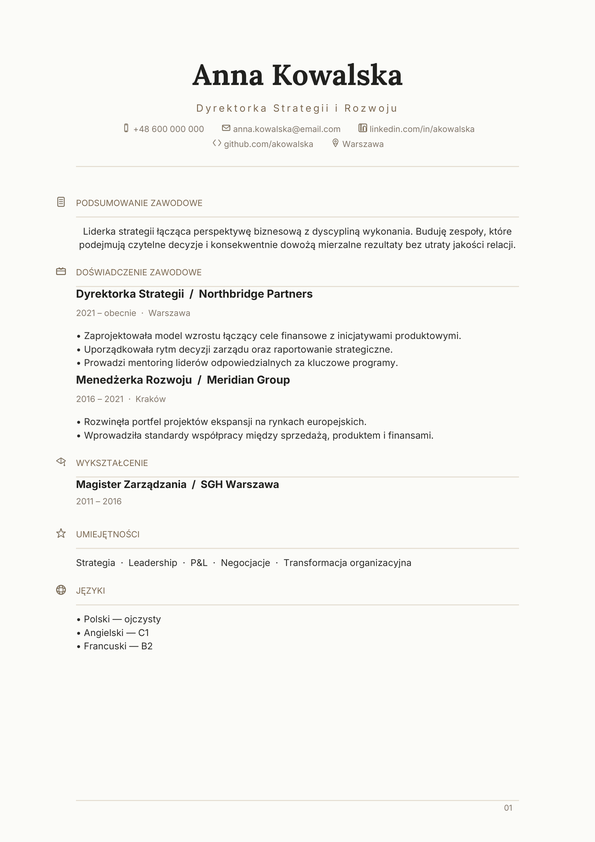
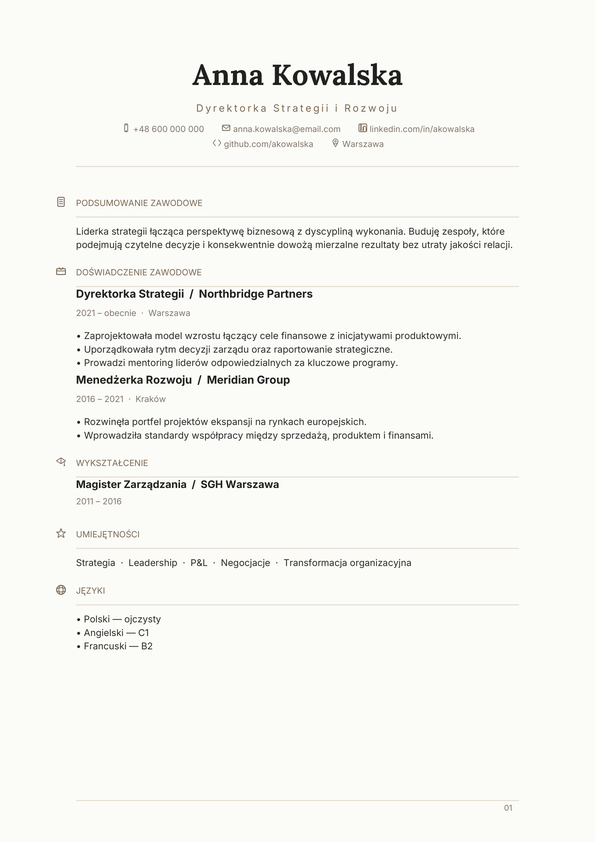
portico

Changed region(s): [[0.121, 0.247, 0.8773, 0.3088]]

diff --git a/frontend/src/templates/portico.js b/frontend/src/templates/portico.js
@@ -1,13 +1,11 @@
 /**
  * Portico template (`layouts: ["icons"]`).
  *
- * The only template that combines centered typography with icon chrome: the
- * name, title, contact row, and summary paragraph are all centered on the
- * page (an "Ivy League" masthead), while Experience / Education / Skills /
- * Languages stay left-aligned single-column with icon-in-gutter section
- * headings, matching the Cardinal / Nova body structure. The summary keeps
- * the same icon+heading chrome as every other section for stylistic
- * consistency — only its paragraph body is centered.
+ * The only template that combines a centered masthead with icon chrome: the
+ * name, title, and contact row are centered on the page (an "Ivy League"
+ * masthead), while everything below the header rule — Summary, Experience,
+ * Education, Skills, Languages — stays left-aligned single-column with
+ * icon-in-gutter section headings, matching the Cardinal / Nova body structure.
  *
  * Geometry mirrors the backend generator
  * (`backend/app/services/cv_templates/templates/portico.py`) exactly: these
@@ -100,13 +98,13 @@ const porticoElements = [
     ...contact("location", 329.4, 342.4, "Warszawa", 144),
     masthead(line(L, 166, W, 1, RULE, 2)),
 
-    // ── Podsumowanie zawodowe (centered paragraph, icon+heading chrome) ─────
+    // ── Podsumowanie zawodowe (left-aligned paragraph, like every body section) ─
     ...sectionHead("summary", "PODSUMOWANIE ZAWODOWE", 203),
     block(
         "Liderka strategii łącząca perspektywę biznesową z dyscypliną wykonania. "
         + "Buduję zespoły, które podejmują czytelne decyzje i konsekwentnie dowożą "
         + "mierzalne rezultaty bez utraty jakości relacji.",
-        L, 224.5, W, 27, 9.4, 13.4, BODY, SANS, 0, 2, "center",
+        L, 224.5, W, 27, 9.4, 13.4, BODY, SANS,
     ),
 
     // ── Doświadczenie zawodowe ───────────────────────────────────────────────

diff --git a/backend/app/services/cv_templates/templates/portico.py b/backend/app/services/cv_templates/templates/portico.py
@@ -27,14 +27,12 @@ from app.services.cv_templates.shared.text import _compact_text, _labels, _skill
 
 
 def _gen_portico(cv: dict) -> list[dict]:
-    """Centered masthead + summary; left-aligned icon body below.
+    """Centered masthead; left-aligned icon body below.
 
-    The only template combining centered typography with icon chrome: name,
-    title, and the contact row are centered on the page, and the summary
-    paragraph stays centered too even though its heading keeps the same
-    left-aligned icon chrome as every other section (a deliberate stylistic
-    choice — see the summary block below). Experience/Education/Skills/Extras
-    stay left-aligned single-column with icon-in-gutter section headings,
+    The only template combining a centered masthead with icon chrome: name,
+    title, and the contact row are centered on the page. Everything below the
+    header rule — summary, experience, education, skills, extras — is a
+    left-aligned single-column body with icon-in-gutter section headings,
     matching the Cardinal/Nova body structure.
     """
     C = {
@@ -133,10 +131,9 @@ def _gen_portico(cv: dict) -> list[dict]:
     if cv.get('summary'):
         b.need_section(SECTION_CHROME, b.measure_block(cv['summary'], W, BODY_FS, BODY_LH, SANS))
         section(lbl['summary'])
-        # Summary keeps the icon+heading chrome for consistency with every
-        # other section, but its paragraph body stays centered — the one
-        # place centering continues past the masthead.
-        b.block(cv['summary'], L, W, BODY_FS, BODY_LH, C['body'], SANS, align='center')
+        # Summary is left-aligned like every other body section; only the
+        # masthead (name / title / contact row) is centered.
+        b.block(cv['summary'], L, W, BODY_FS, BODY_LH, C['body'], SANS)
         close_section()
     if cv.get('experience'):
         jobs = cv['experience']

diff --git a/README.md b/README.md
@@ -648,17 +648,17 @@ Known limitation: like Tessera, sidebar sections are atomic and remain on page 1
 
 ### Portico centered-masthead template
 
-Portico is a paid single-column template (`layouts: ["icons"]`) built around a genuinely new composition: it is the only template that combines a centered masthead with icon chrome. The name, title, and a two-row contact band are all centered on the page (an "Ivy League"-style résumé header), and the summary paragraph stays centered too, while Experience, Education, Skills, and any extra sections drop into the same left-aligned single-column icon body used by Cardinal and Nova. Its palette is a warm, quiet bronze/taupe (`#7C6A52` accent, `#22221F` ink, `#FCFBF8` paper, `#E4DED2` rule) — deliberately distinct from every other accent colour in the catalogue. The display name uses Lora (serif); everything else — title, contact labels, section headings, and body copy — uses Inter.
+Portico is a paid single-column template (`layouts: ["icons"]`) built around a genuinely new composition: it is the only template that combines a centered masthead with icon chrome. The name, title, and a two-row contact band are all centered on the page (an "Ivy League"-style résumé header), while everything below the header rule — Summary, Experience, Education, Skills, and any extra sections — drops into the same left-aligned single-column icon body used by Cardinal and Nova. Its palette is a warm, quiet bronze/taupe (`#7C6A52` accent, `#22221F` ink, `#FCFBF8` paper, `#E4DED2` rule) — deliberately distinct from every other accent colour in the catalogue. The display name uses Lora (serif); everything else — title, contact labels, section headings, and body copy — uses Inter.
 
-The summary keeps the same icon-in-gutter, left-aligned heading as every other section for stylistic consistency (it is a section like any other), but its paragraph body renders as a centered `textarea` — the one place centering continues past the masthead into the document body. This is a deliberate two-zone composition (centered masthead + summary, left-aligned working sections) rather than a fully centered document, which keeps longer experience bullets and education records readable.
+Centering is scoped to the masthead only (name / title / contact row); the body is a conventional left-aligned single column. This keeps longer experience bullets and education records readable while still giving the header the distinctive centered look.
 
-Centering itself needed no renderer or schema changes: `align: "center"` on a `textarea`/`_block` element was already supported end-to-end by both the ReportLab PDF renderer (`renderTextarea`) and the canvas (`Textarea.jsx`). The only new engineering surface is the contact row, which must re-center itself around the page's horizontal center regardless of how many contact channels (phone, email, socials, location) a CV has — `_place_centered_icon_contacts` buckets contact chips into lines using the same per-item width estimate as the left-anchored `_place_wrapping_icon_contacts` (factored into a shared `_contact_item_width` helper so the two placers cannot drift apart), then re-centers each completed line around `center_x` before laying out icons and labels left-to-right within it.
+Centering itself needed no renderer or schema changes: `align: "center"` on a `textarea`/`_block` element was already supported end-to-end by both the ReportLab PDF renderer (`renderTextarea`) and the canvas (`Textarea.jsx`), and the centered name/title are `_block` textareas in a page-symmetric box. The only new engineering surface is the contact row, which must re-center itself around the page's horizontal center regardless of how many contact channels (phone, email, socials, location) a CV has — `_place_centered_icon_contacts` buckets contact chips into lines using the same per-item width estimate as the left-anchored `_place_wrapping_icon_contacts` (factored into a shared `_contact_item_width` helper so the two placers cannot drift apart), then re-centers each completed line around `center_x` before laying out icons and labels left-to-right within it.
 
 The bronze glyphs come from a dedicated `portico` theme added to the shared icon pipeline (`scripts/generate_iconic_icons.py`, `THEMES["portico"] = "#7C6A52"`), rendered to `backend/template_assets/iconic/portico/*.png` and served from the existing `/template-assets/` mount.
 
 Implementation:
 
-- `backend/app/services/cv_templates/templates/portico.py`, function `_gen_portico` — centered `_block` masthead, `_place_centered_icon_contacts` for the contact row, `align="center"` on the summary's body block only; Experience/Education/Skills/Extras reuse the same `section()`/`Builder` pattern as `nova.py`
+- `backend/app/services/cv_templates/templates/portico.py`, function `_gen_portico` — centered `_block` masthead and `_place_centered_icon_contacts` for the contact row; the entire body (summary/experience/education/skills/extras) reuses the same left-aligned `section()`/`Builder` pattern as `nova.py`
 - `backend/app/services/cv_templates/shared/contact.py` — `_place_centered_icon_contacts` and the shared `_contact_item_width` helper
 - `backend/app/services/cv_templates/registry.py`, `_GENERATORS["portico"]` and `TEMPLATE_LAYOUTS["portico"]`
 - `frontend/src/templates/portico.js` — static starter spec; local `icon`, `sectionHead`, `contact` helpers mirroring `cardinal.js`, authored from the backend generator's own output coordinates for equivalent demo content
@@ -672,7 +672,7 @@ Tests:
 - `backend/tests/test_cv_template_layouts.py`, `test_summary_matches_experience_body_type_size` and the page-bounds test iterate every registered generator automatically, so Portico is covered without a dedicated test entry
 - `backend/tests/test_template_registry_sync.py` — enforces the frontend/backend id, layout-tag, and tier parity that `portico` now participates in
 
-Known limitation: because the summary's paragraph is centered while its heading stays left-aligned in the icon gutter (a deliberate consistency choice, not an oversight — see above), an unusually short summary can read visually asymmetric against its own heading; this is expected for the design and does not affect Experience/Education/Skills, which are fully left-aligned.
+Reorder note: because Portico's centered masthead authors a deliberate ~36px clearance under the header rule (`SPACE_AFTER_HEADER_RULE`), the structural packer preserves that clearance rather than collapsing it — see the `resolveFlowStart` behaviour in [A4 canvas editor](#a4-canvas-editor-template-vs-freeform).
 
 ### Icon-tagged templates and icon reflow
 
@@ -1949,22 +1949,22 @@ Znane ograniczenie: podobnie jak Tessera, sekcje sidebara są atomowe i pozostaj
 
 ### Szablon Portico z wycentrowanym mastheadem
 
-Portico to płatny szablon jednokolumnowy (`layouts: ["icons"]`) zbudowany wokół naprawdę nowej kompozycji: to jedyny szablon łączący wycentrowany masthead z chrome ikonowym. Imię i nazwisko, tytuł zawodowy oraz dwuwierszowy pasek kontaktu są wycentrowane na stronie (nagłówek w stylu "Ivy League"), a akapit podsumowania również pozostaje wycentrowany, natomiast Doświadczenie, Wykształcenie, Umiejętności i ewentualne sekcje dodatkowe trafiają do tego samego wyrównanego do lewej, jednokolumnowego korpusu ikonowego, jakiego używają Cardinal i Nova. Paleta jest ciepła i stonowana — brąz/taupe (`#7C6A52` akcent, `#22221F` tusz, `#FCFBF8` papier, `#E4DED2` linia) — celowo odmienna od każdego innego akcentu w katalogu. Imię i nazwisko używa szeryfowego kroju Lora; wszystko inne — tytuł, etykiety kontaktu, nagłówki sekcji i tekst — używa Inter.
+Portico to płatny szablon jednokolumnowy (`layouts: ["icons"]`) zbudowany wokół naprawdę nowej kompozycji: to jedyny szablon łączący wycentrowany masthead z chrome ikonowym. Imię i nazwisko, tytuł zawodowy oraz dwuwierszowy pasek kontaktu są wycentrowane na stronie (nagłówek w stylu "Ivy League"), natomiast wszystko poniżej linii nagłówka — Podsumowanie, Doświadczenie, Wykształcenie, Umiejętności i ewentualne sekcje dodatkowe — trafia do tego samego wyrównanego do lewej, jednokolumnowego korpusu ikonowego, jakiego używają Cardinal i Nova. Paleta jest ciepła i stonowana — brąz/taupe (`#7C6A52` akcent, `#22221F` tusz, `#FCFBF8` papier, `#E4DED2` linia) — celowo odmienna od każdego innego akcentu w katalogu. Imię i nazwisko używa szeryfowego kroju Lora; wszystko inne — tytuł, etykiety kontaktu, nagłówki sekcji i tekst — używa Inter.
 
-Podsumowanie zachowuje ten sam wyrównany do lewej nagłówek z ikoną w rynnie co każda inna sekcja, ze względu na spójność stylistyczną (to sekcja jak każda inna), ale jego akapit renderuje się jako wycentrowana `textarea` — jedyne miejsce, w którym centrowanie kontynuuje się poza masthead, w głąb treści dokumentu. To celowa kompozycja dwustrefowa (wycentrowany masthead + podsumowanie, wyrównany do lewej korpus roboczy), a nie w pełni wycentrowany dokument, co zachowuje czytelność dłuższych opisów doświadczenia i wpisów edukacji.
+Centrowanie ogranicza się wyłącznie do mastheadu (imię i nazwisko / tytuł / wiersz kontaktu); korpus jest zwykłą, wyrównaną do lewej pojedynczą kolumną. Zachowuje to czytelność dłuższych punktów doświadczenia i wpisów edukacji, dając jednocześnie nagłówkowi charakterystyczny, wycentrowany wygląd.
 
-Samo centrowanie nie wymagało żadnych zmian w rendererze ani schemacie: `align: "center"` na elemencie `textarea`/`_block` był już w pełni obsługiwany zarówno przez renderer PDF ReportLab (`renderTextarea`), jak i przez kanwę (`Textarea.jsx`). Jedyną nową powierzchnią inżynieryjną jest wiersz kontaktu, który musi się samodzielnie centrować wokół poziomego środka strony niezależnie od liczby kanałów kontaktowych (telefon, e-mail, social media, lokalizacja) w danym CV — `_place_centered_icon_contacts` grupuje chipy kontaktowe w wiersze według tego samego oszacowania szerokości co wyrównany do lewej `_place_wrapping_icon_contacts` (wydzielonego do wspólnego helpera `_contact_item_width`, żeby oba placery nie mogły się rozjechać), a następnie centruje każdy ukończony wiersz wokół `center_x` przed rozmieszczeniem ikon i etykiet od lewej do prawej wewnątrz niego.
+Samo centrowanie nie wymagało żadnych zmian w rendererze ani schemacie: `align: "center"` na elemencie `textarea`/`_block` był już w pełni obsługiwany zarówno przez renderer PDF ReportLab (`renderTextarea`), jak i przez kanwę (`Textarea.jsx`), a wycentrowane imię/tytuł to textarea `_block` w symetrycznym względem strony boksie. Jedyną nową powierzchnią inżynieryjną jest wiersz kontaktu, który musi się samodzielnie centrować wokół poziomego środka strony niezależnie od liczby kanałów kontaktowych (telefon, e-mail, social media, lokalizacja) w danym CV — `_place_centered_icon_contacts` grupuje chipy kontaktowe w wiersze według tego samego oszacowania szerokości co wyrównany do lewej `_place_wrapping_icon_contacts` (wydzielonego do wspólnego helpera `_contact_item_width`, żeby oba placery nie mogły się rozjechać), a następnie centruje każdy ukończony wiersz wokół `center_x` przed rozmieszczeniem ikon i etykiet od lewej do prawej wewnątrz niego.
 
 Brązowe glify pochodzą z dedykowanego motywu `portico` dodanego do wspólnego pipeline'u ikon (`scripts/generate_iconic_icons.py`, `THEMES["portico"] = "#7C6A52"`), renderowanego do `backend/template_assets/iconic/portico/*.png` i serwowanego z istniejącego mountu `/template-assets/`.
 
 Implementacja:
 
-- `backend/app/services/cv_templates/templates/portico.py`, funkcja `_gen_portico` — wycentrowany masthead przez `_block`, `_place_centered_icon_contacts` dla wiersza kontaktu, `align="center"` tylko na bloku treści podsumowania; Doświadczenie/Wykształcenie/Umiejętności/Sekcje dodatkowe używają tego samego wzorca `section()`/`Builder` co `nova.py`
+- `backend/app/services/cv_templates/templates/portico.py`, funkcja `_gen_portico` — wycentrowany masthead przez `_block` oraz `_place_centered_icon_contacts` dla wiersza kontaktu; cały korpus (podsumowanie/doświadczenie/wykształcenie/umiejętności/sekcje dodatkowe) używa tego samego wyrównanego do lewej wzorca `section()`/`Builder` co `nova.py`
 - `backend/app/services/cv_templates/shared/contact.py` — `_place_centered_icon_contacts` oraz wspólny helper `_contact_item_width`
 - `backend/app/services/cv_templates/registry.py`, `_GENERATORS["portico"]` i `TEMPLATE_LAYOUTS["portico"]`
 - `frontend/src/templates/portico.js` — statyczny starter; lokalne helpery `icon`, `sectionHead`, `contact` na wzór `cardinal.js`, oparte na współrzędnych z rzeczywistego wyjścia backendowego generatora dla równoważnej treści demo
 - `frontend/src/templates/index.js`, wpis rejestru `portico` (`tier: "paid"`, `layouts: ["icons"]`, `accent: "#7C6A52"`)
-- `frontend/src/templates/helpers.js` — `block()` zyskał opcjonalny parametr `align` (domyślnie `"left"`), żeby statyczne szablony startowe mogły autoryzować wycentrowane textarea
+- `frontend/src/templates/helpers.js` — `block()` zyskał opcjonalny parametr `align` (domyślnie `"left"`), żeby statyczne szablony startowe mogły autoryzować wycentrowane textarea (używane przez masthead Portico)
 - `scripts/generate_iconic_icons.py`, `THEMES["portico"]`
 - `frontend/public/template-mockups/portico.png`, podgląd A4 generowany ze źródła
 
@@ -1973,7 +1973,7 @@ Testy:
 - `backend/tests/test_cv_template_layouts.py`, `test_summary_matches_experience_body_type_size` oraz test granic strony iterują automatycznie po wszystkich zarejestrowanych generatorach, więc Portico jest objęte pokryciem bez dedykowanego wpisu testowego
 - `backend/tests/test_template_registry_sync.py` — wymusza parytet id, tagów layoutu i planu (tier) frontend/backend, w którym `portico` teraz uczestniczy
 
-Znane ograniczenie: ponieważ akapit podsumowania jest wycentrowany, a jego nagłówek pozostaje wyrównany do lewej w rynnie ikon (celowy wybór na rzecz spójności, a nie przeoczenie — zob. wyżej), niezwykle krótkie podsumowanie może wizualnie wyglądać asymetrycznie względem własnego nagłówka; to zamierzone zachowanie projektowe i nie dotyczy Doświadczenia/Wykształcenia/Umiejętności, które są w pełni wyrównane do lewej.
+Uwaga o zmianie kolejności: ponieważ wycentrowany masthead Portico autoryzuje celowy prześwit ~36px pod linią nagłówka (`SPACE_AFTER_HEADER_RULE`), paker strukturalny zachowuje ten prześwit zamiast go zwijać — zob. działanie `resolveFlowStart` w [Edytor A4](#edytor-a4-tryb-szablonu-vs-projekt-własny).
 
 ### Szablony z tagiem `icons` i reflow ikon
 
